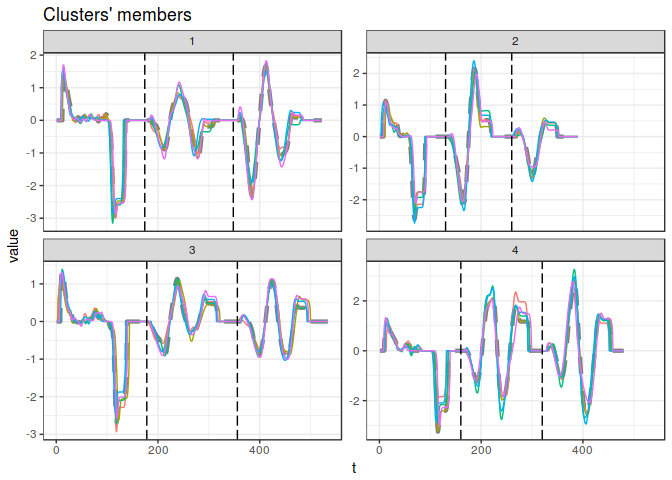
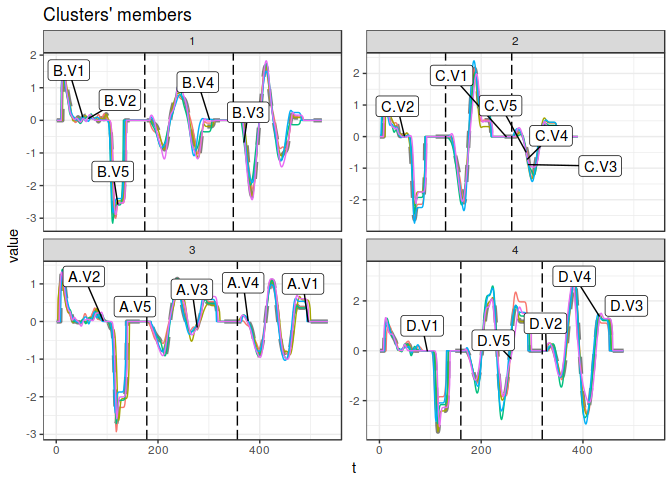
Add option for legends in plots (#25)

diff --git a/README.md b/README.md
@@ -1,11 +1,11 @@
 <!-- README.md is generated from README.Rmd. Please edit that file -->
 [![CRAN\_Status\_Badge](http://www.r-pkg.org/badges/version/dtwclust)](https://cran.r-project.org/package=dtwclust)
-[![Downloads](http://cranlogs.r-pkg.org/badges/dtwclust)](http://cranlogs.r-pkg.org/badges/dtwclust)
 [![Travis-CI Build
 Status](https://travis-ci.org/asardaes/dtwclust.svg?branch=master)](https://travis-ci.org/asardaes/dtwclust)
 [![AppVeyor Build
 Status](https://ci.appveyor.com/api/projects/status/github/asardaes/dtwclust?branch=master&svg=true)](https://ci.appveyor.com/project/asardaes/dtwclust)
 [![codecov](https://codecov.io/gh/asardaes/dtwclust/branch/master/graph/badge.svg)](https://codecov.io/gh/asardaes/dtwclust)
+[![Downloads](http://cranlogs.r-pkg.org/badges/dtwclust)](http://cranlogs.r-pkg.org/badges/dtwclust)
 
 Time Series Clustering Along with Optimizations for the Dynamic Time Warping (DTW) Distance
 ===========================================================================================
@@ -109,7 +109,7 @@ pc <- tsclust(CharTraj, type = "partitional", k = 20L,
 #> Iteration 6: Changes / Distsum = 1 / 1347.486
 #> Iteration 7: Changes / Distsum = 0 / 1346.886
 #> 
-#>  Elapsed time is 0.523 seconds.
+#>  Elapsed time is 0.493 seconds.
 plot(pc)
 ```
 
@@ -126,7 +126,7 @@ hc <- tsclust(CharTraj, type = "hierarchical", k = 20L,
 #> Performing hierarchical clustering...
 #> Extracting centroids...
 #> 
-#>  Elapsed time is 0.291 seconds.
+#>  Elapsed time is 0.244 seconds.
 plot(hc)
 ```
 
@@ -151,7 +151,7 @@ fc
 #> 
 #> Time required for analysis:
 #>    user  system elapsed 
-#>   0.350   0.000   0.358 
+#>   0.370   0.000   0.366 
 #> 
 #> Head of fuzzy memberships:
 #> 
@@ -170,7 +170,7 @@ fc
 # Multivariate series provided as a list of matrices, using GAK distance
 mvc <- tsclust(CharTrajMV[1L:20L], k = 4L, distance = "gak", seed = 390L)
 # Note how the variables of each series are appended one after the other in the plot
-plot(mvc)
+plot(mvc, labels = list(nudge_x = -10, nudge_y = 1))
 ```
 
 ![](README-multivariate-1.png)

diff --git a/CHANGELOG.md b/CHANGELOG.md
@@ -2,7 +2,8 @@
 
 ## Version 5.1.0.9000
 * Several functions now use `RcppParallel` for parallelization, refer to the new parallelization vignette for more information.
-* None of the distance/centroid functions expose a parameter for helper matrices anymore.
+* None of the distance/centroid functions expose parameters for helper matrices anymore.
+* Added the option to add labels to non-dendrogram plots.
 * The ellipsis in `sdtw_cent` is now actually passed to `nloptr`.
 * Fixed `tsclust` for `dtw_lb` distance and `pam.precompute = FALSE` (it was always using `dtw_basic`, so the results should not change).
 * Updated timing experiments.
